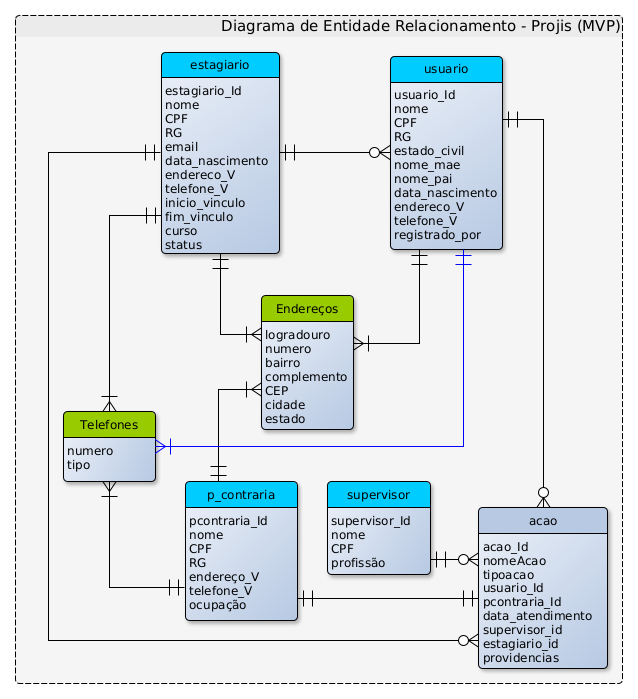
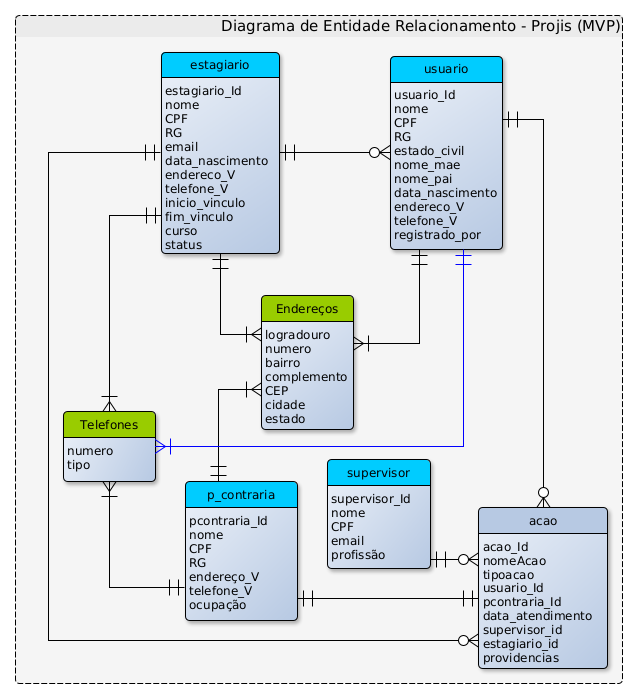
troca da tag rg por email no supervisor

Changed region(s): [[0.5063, 0.6309, 0.685, 0.8412]]

diff --git a/front-end/src/app/supervisor/supervisor-list/supervisor-list.component.html b/front-end/src/app/supervisor/supervisor-list/supervisor-list.component.html
@@ -9,7 +9,7 @@
 
 <table mat-table [dataSource]="supervisores" class="mat-elevation-z4">
 
-  <!--   nome:, cpf:, rg:, profissao:  -->
+  <!--   nome:, cpf:, email:, profissao:  -->
 
   <ng-container matColumnDef="nome">
     <th mat-header-cell *matHeaderCellDef> Nome </th>
@@ -21,9 +21,9 @@
     <td mat-cell *matCellDef="let supervisor"> {{supervisor.cpf}} </td>
   </ng-container>
 
-  <ng-container matColumnDef="rg">
-    <th mat-header-cell *matHeaderCellDef> RG </th>
-    <td mat-cell *matCellDef="let supervisor"> {{supervisor.rg}} </td>
+  <ng-container matColumnDef="email">
+    <th mat-header-cell *matHeaderCellDef> e-mail </th>
+    <td mat-cell *matCellDef="let supervisor"> {{supervisor.email}} </td>
   </ng-container>
 
   <ng-container matColumnDef="profissao">
@@ -35,7 +35,7 @@
    <ng-container matColumnDef="editar">
     <th mat-header-cell *matHeaderCellDef> Editar </th>
     <td mat-cell *matCellDef="let supervisor">
-      <a mat-raised-button color="accent" title="Editar Estagiário" [routerLink]="['/supervisor', supervisor._id]">
+      <a mat-raised-button color="accent" title="Editar Supervisor" [routerLink]="['/supervisor', supervisor._id]">
         <mat-icon>edit</mat-icon>
       </a>
     </td>
@@ -45,7 +45,7 @@
   <ng-container matColumnDef="excluir">
     <th mat-header-cell *matHeaderCellDef> Excluir </th>
     <td mat-cell *matCellDef="let supervisor">
-      <button mat-raised-button color="warn" title="Excluir Estagiário" (click)="excluirItem(supervisor._id)">
+      <button mat-raised-button color="warn" title="Excluir Supervisor" (click)="excluirItem(supervisor._id)">
         <mat-icon>delete_forever</mat-icon>
       </button>
     </td>

diff --git a/back-end/models/Supervisor.js b/back-end/models/Supervisor.js
@@ -1,9 +1,7 @@
 const mongoose = require('mongoose')
 
 const SupervisorSchema = mongoose.Schema({
-   nome: {
-      type: String
-   },
+   nome: String,
    cpf: {
       type: String,
       required: true,
@@ -11,13 +9,8 @@ const SupervisorSchema = mongoose.Schema({
          unique: true // Não deixa repetir CPF no cadastro
       }
    },
-   rg: {
-      type: String
-   },
-   profissao: {
-      type: String
-   },
-      
+   email: String,
+   profissao: String,      
 });
 /*
    Parâmetros de mongoose.model():

diff --git a/front-end/src/app/supervisor/supervisor-list/supervisor-list.component.ts b/front-end/src/app/supervisor/supervisor-list/supervisor-list.component.ts
@@ -13,8 +13,8 @@ import { ConfirmDlgComponent } from 'src/app/ui/confirm-dlg/confirm-dlg.componen
 export class SupervisorListComponent implements OnInit {
 
   supervisores: any = []
-  displayedColumns: any = ['nome', 'cpf', 'rg', 'profissao']
-    // [campos supervisor]   nome:, cpf:, rg:, profissao:
+  displayedColumns: any = ['nome', 'cpf', 'email', 'profissao']
+    // [campos supervisor]   nome:, cpf:, email:, profissao:
 
   constructor(
     private supervisorSrv: SupervisorService,
